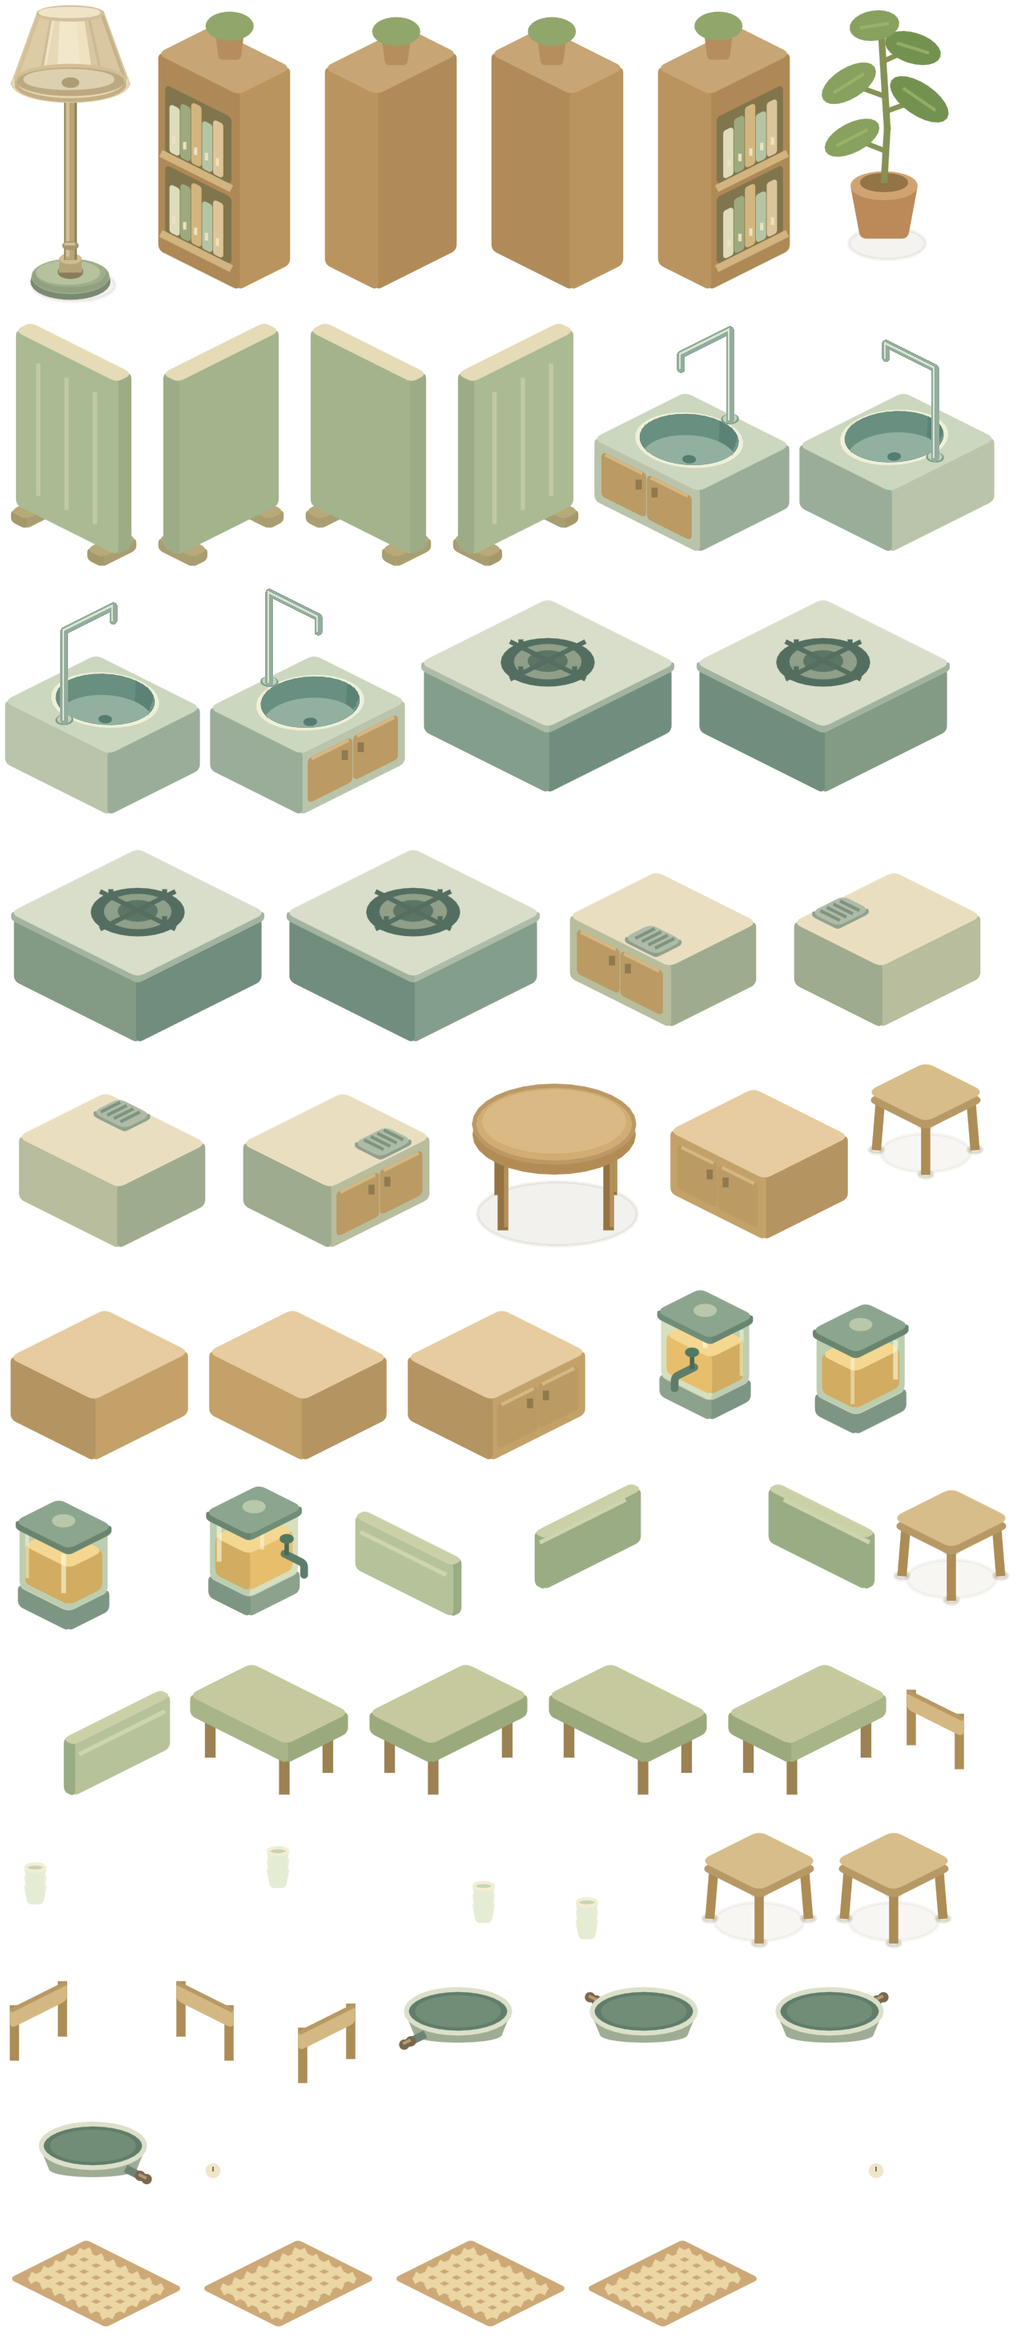
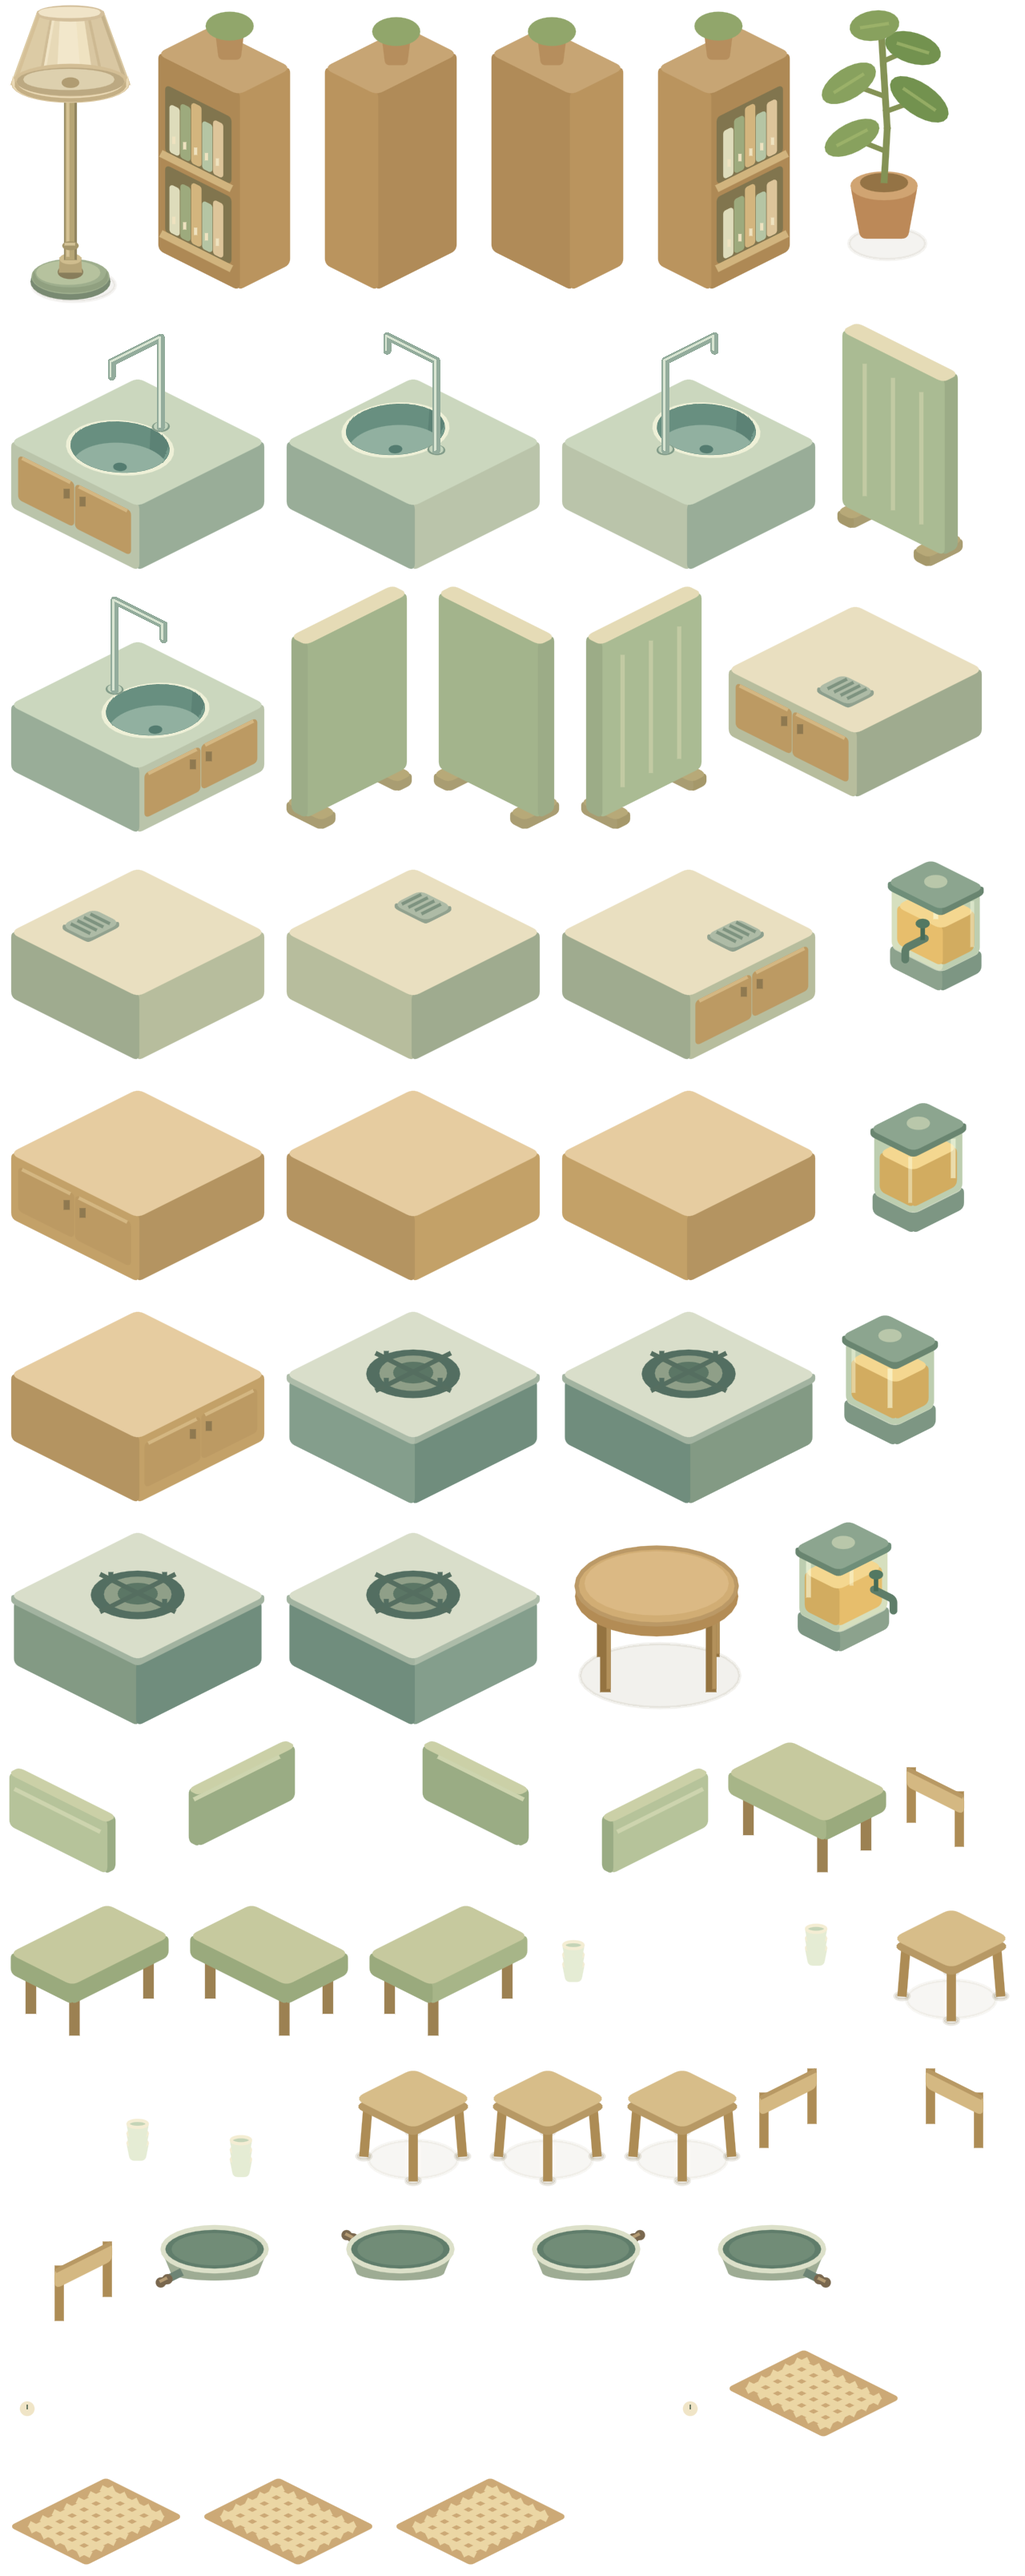
fix: restore full-cell cabinet bodies (#303)
* fix: restore full-cell cabinet bodies

* docs: link cabinet restoration draft

* test: align build actor fixture with accepted full-cell sink stance

Keep authoritative build positions, body conflicts and wiping cross-cell guards.
Assert the unchanged washing inset and exterior workface instead of forcing
feet into the accepted solid sink. Exact production RED 84 checks, corrected
fixture GREEN 85 checks; no renderer or atlas changes.

* fix: adopt qualified full-cell cabinet atlas on merged grid

Preserve the exact Grid-composed PR303 source be146a8d and all original
history. Adopt the fixed declared Furniture PNG after canonical
38698233596 and independent archive review. Keep original Moving/Heads,
all import bytes and complete Grid provenance. No regeneration or
new visual change. Ordinary exact-head product checks remain required.

diff --git a/tests/run_integration_candidate.py b/tests/run_integration_candidate.py
@@ -25,6 +25,7 @@ sys.path.insert(0, str(ROOT / 'tools'))
 from build.project_layout import stage_project
 SUITES = [
     ("test_unified_building", "UNIFIED_BUILDING_RESULT"),
+    ("test_modular_cabinets", "MODULAR_CABINETS_RESULT"),
     ("test_manual_ground_cleanup", "MANUAL_GROUND_CLEANUP_RESULT"),
     ("test_character_pick_geometry", "CHARACTER_PICK_GEOMETRY_RESULT"),
     ("test_feedback_sfx", "FEEDBACK_SFX_RESULT"),
